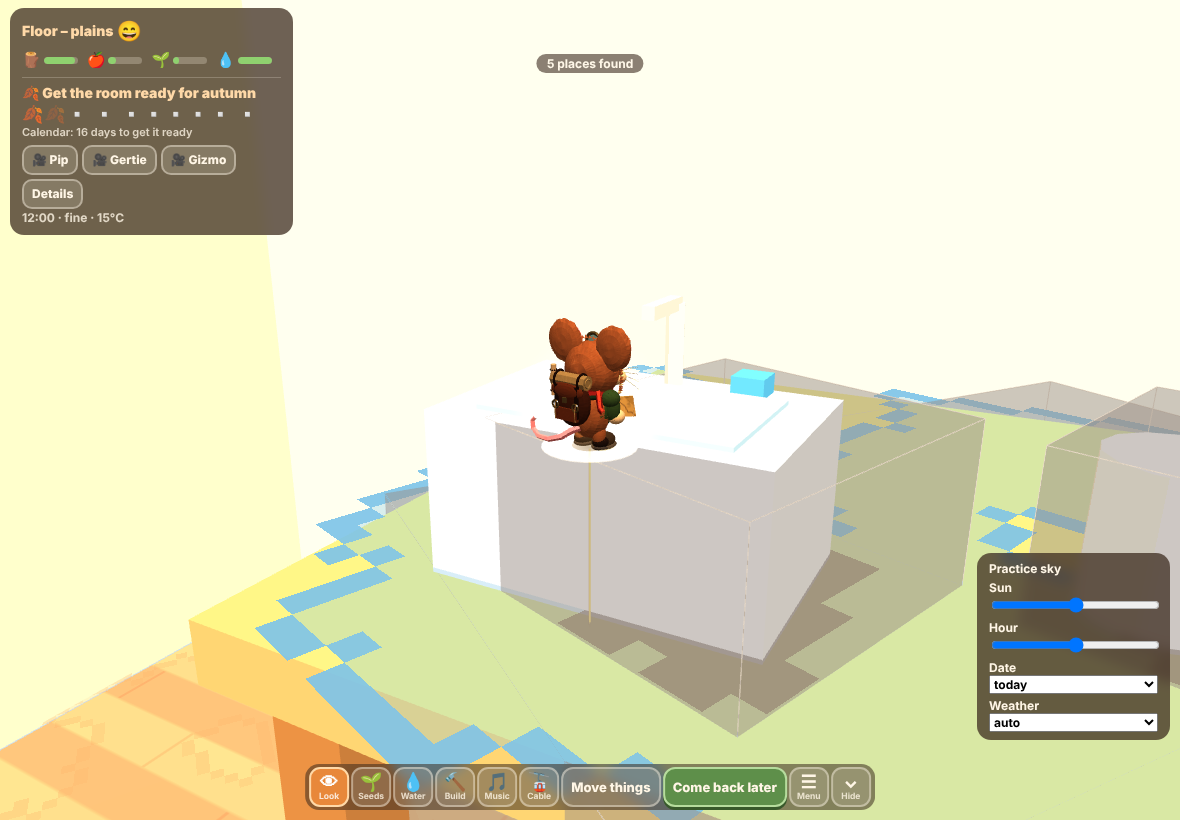
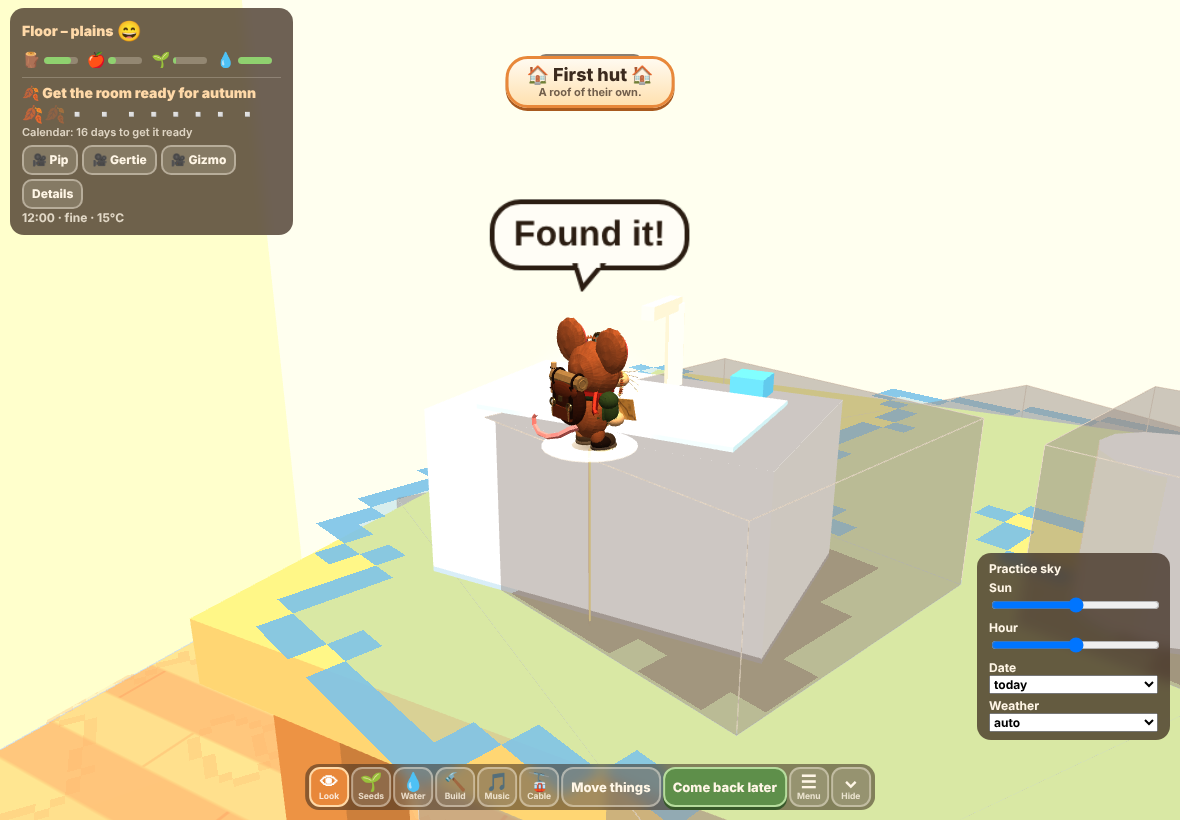
WIP build 18: test fixes, via hook test

diff --git a/games/base-camp/tests/water-test.js b/games/base-camp/tests/water-test.js
@@ -6,7 +6,7 @@ const { serve, launch, ROOT } = require('./lib.js'); const fs = require('fs'), p
 const OUT = path.join(ROOT, 'shots') + '/'; const sleep = (ms) => new Promise((r) => setTimeout(r, ms));
 const res = []; const ok = (n, c, x) => { res.push(!!c); console.log((c ? 'PASS ' : 'FAIL ') + n + (x !== undefined ? '  ' + x : '')); };
 const FIX = JSON.parse(fs.readFileSync(path.join(__dirname, 'fixtures', 'style-colony.json'), 'utf8')), OLD17 = JSON.parse(fs.readFileSync(path.join(__dirname, 'fixtures', 'build17-save.json'), 'utf8'));
-const B17 = { room: 1393, close: 597 }; /* build 17 on the same fixture colony (tests/style-test.js way of measuring, run on a copy of build 17) */
+const B17 = { room: 1363, close: 620 }; /* build 17 on the same fixture colony, measured the style-test.js way on a copy of build 17: 1393 / 597 (style-test), 1346 / 623 and 1350 / 639 (three runs, so about +-3% noise); the mean is used */
 const stamp = (st) => { const o = {}; for (const k in st) { let v = st[k]; try { const j = JSON.parse(v), n = Date.now(); if (k === 'base-camp-save-v2') j.t = n; if (k === 'base-camp-map-v1') j.saved = n; if (k === 'bc-rooms-v1') j.rooms.forEach((r) => { r.last = n; }); v = JSON.stringify(j); } catch (e) { /* as is */ } o[k] = v; } return o; };
 async function boot(p, url, store) {
   const ev = (f, a) => p.evaluate(f, a);
@@ -30,7 +30,7 @@ const view = (p, o) => p.evaluate((o) => { const hs = (S) => S.things.filter((t)
   ok('qualities: sink fresh, plant pot and vase green, cup tea, toilet waste only', await ev(() => __g.WSRC.sink.q === 'fresh' && __g.WSRC.pot.q === 'green' && __g.WSRC.vase.q === 'green' && __g.WSRC.cup.q === 'tea' && __g.WSRC.toilet.q === 'waste'));
   for (let i = 0; i < 60 && !(await ev(() => __g.G.spots.some((s) => __g.waterKind(s) === 'sink') && __g.G.spots.some((s) => __g.waterKind(s) === 'toilet'))); i++) await sleep(500);
   const seen = await ev(() => ({ sinks: __g.G.spots.filter((s) => __g.waterKind(s) === 'sink').length, toilets: __g.G.spots.filter((s) => __g.waterKind(s) === 'toilet').length }));
-  ok('the scan recognises the toy sink and toilet as spots (one each)', seen.sinks === 1 && seen.toilets === 1, JSON.stringify(seen));
+  ok('the scan recognises the toy sink and toilet as spots (one each)', seen.sinks === 1 && seen.toilets === 1, JSON.stringify(seen) + JSON.stringify(await ev(() => __g.G.spots.filter((s) => __g.waterKind(s)).map((s) => [s.name, +s.x.toFixed(2), +s.y.toFixed(2), +s.z.toFixed(2)]))));
   await ev(() => { const g = __g; for (const [id, kind] of [['sink', 'sink'], ['toilet', 'toilet']]) if (!g.G.spots.some((s) => g.waterKind(s) === kind)) { const q = g.PROPS.find((x) => x.id === id), [wx, wz] = g.PLACE ? [q.x, q.z] : [0, 0]; g.addSpot({ tag: 'other', name: kind, x: wx, y: q.base + q.h, z: wz, area: 0.02, src: 'auto' }); } });
   const S0 = await ev(() => { const S = __g.mainSettlement(); S.t = Math.max(S.t, 30); S.stock.wood = 40; __g.G.net.found = {}; __g.G.net.exp = null; __g.G.net.xt = 0; __g.G.speed = 0; return { cols: S.cols.length, scouts: S.cols.filter((c) => c.scout).length, loo: !!__g.looOf(S) }; });
   ok('the colony is up with one scout; each camp has a loo hut', S0.cols >= 3 && S0.scouts === 1 && S0.loo, JSON.stringify(S0));
@@ -38,12 +38,13 @@ const view = (p, o) => p.evaluate((o) => { const hs = (S) => S.things.filter((t)
   ok('before the scout finds the sink no straw can be laid: "Nobody has found the sink yet"', /Nobody has found the sink/.test(refuse.err) && !refuse.lay && refuse.n === 0 && refuse.modes === 'car', JSON.stringify(refuse));
   /* the expedition: walk, climb, look around, cheer; the toast says who found it; step the sim and watch the scout */
   const ex = { phases: [], toast: '', shot: false, name: '', walked: false };
-  for (let i = 0; i < 400; i++) {
-    const r = await ev(() => { __g.simulate(0.5, 0.5); const N = __g.G.net, S = __g.mainSettlement(), c = S.cols.find((q) => q.scout), j = c && c.job; return { ph: j && j.type === 'expedition' ? j.ph : '', moving: c && c.moving, found: Object.keys(N.found).length, toast: document.getElementById('toast').textContent, name: c && c.name, yOff: c && c.yOff, exps: N.st.expeds }; });
-    if (r.ph && ex.phases[ex.phases.length - 1] !== r.ph) ex.phases.push(r.ph); if (r.ph === 'go' && r.moving) ex.walked = true; if (/found the/.test(r.toast)) { ex.toast = r.toast; ex.name = r.name; }
-    if (r.ph === 'look' && !ex.shot) { ex.shot = true; await ev(() => { const S = __g.mainSettlement(), c = S.cols.find((q) => q.scout), sp = __g.spotById(c.job.sp), w = S.group.localToWorld(new __g.THREE.Vector3(c.x, c.yOff || 0, c.z)); __g.P.mode = 'orbit'; __g.P.yaw = 0.5; __g.P.pitch = 0.3; __g.focusOn(w.x, w.y + 0.02, w.z, 0.42); }); await sleep(2200); await p.screenshot({ path: OUT + '57-scout-expedition.png' }); }
+  await ev(() => { window.__rec = { phases: [], toast: '', name: '', walked: false }; window.__expFn = () => { const R = window.__rec, N = __g.G.net, S = __g.mainSettlement(), c = S.cols.find((q) => q.scout), j = c && c.job, ph = j && j.type === 'expedition' ? j.ph : ''; if (ph && R.phases[R.phases.length - 1] !== ph) R.phases.push(ph); if (ph === 'go' && c.moving) R.walked = true; const t = document.getElementById('toast').textContent; if (/found the/.test(t)) { R.toast = t; R.name = c.name; } return false; }; });
+  for (let round = 0; round < 8; round++) {
+    const r = await ev(() => { let lookAt = false; __run(240, () => { window.__expFn(); const S = __g.mainSettlement(), c = S.cols.find((q) => q.scout), j = c && c.job; if (j && j.type === 'expedition' && j.ph === 'look' && !window.__shot) { window.__shot = true; lookAt = true; return true; } return Object.keys(__g.G.net.found).length >= 2 && !(j && j.type === 'expedition'); }, 0.25); return { lookAt, found: Object.keys(__g.G.net.found).length }; });
+    if (r.lookAt && !ex.shot) { ex.shot = true; await ev(() => { const S = __g.mainSettlement(), c = S.cols.find((q) => q.scout), w = S.group.localToWorld(new __g.THREE.Vector3(c.x, c.yOff || 0, c.z)); __g.P.mode = 'orbit'; __g.P.yaw = 0.5; __g.P.pitch = 0.3; __g.focusOn(w.x, w.y + 0.02, w.z, 0.42); }); await sleep(2200); await p.screenshot({ path: OUT + '57-scout-expedition.png' }); continue; }
     if (r.found >= 2) break;
   }
+  Object.assign(ex, await ev(() => window.__rec));
   console.log('  expedition phases ' + ex.phases.join(' > ') + ', toast "' + ex.toast.replace(/\s+/g, ' ').slice(0, 90) + '"');
   ok('the scout goes on an expedition: walk there, climb, LookAround, cheer, and walks back', ex.walked && ex.phases.includes('look') && ex.phases.includes('cheer') && ex.phases.includes('back'), ex.phases.join());
   ok('the toast says who found it ("Pip found the sink!") and is tagged as a placeholder', /found the (sink|toilet)/.test(ex.toast) && ex.toast.includes(ex.name) && /CAIRN \(placeholder\)/.test(ex.toast), ex.toast.slice(0, 120));
@@ -70,12 +71,13 @@ const view = (p, o) => p.evaluate((o) => { const hs = (S) => S.things.filter((t)
   const lnS = await ev(() => { const S = __g.mainSettlement(), sp = __g.G.spots.find((s) => __g.waterKind(s) === 'toilet'), [wx, wz] = __g.l2w(S, 0.0, 0.1); S.waste = 2; S.compost = 0; window.__sfxLog.length = 0; const ln = __g.netLay('waste', S, wx, wz, sp); return { made: !!ln, kind: ln && ln.k, loo: !!__g.looOf(S), refusedWater: __g.netCanLay('pipe', S, sp) }; });
   ok('a bucket line is laid from the loo hut to the toilet; a straw to the toilet is refused', lnS.made && lnS.kind === 'waste' && lnS.loo && /toilet takes buckets/.test(lnS.refusedWater), JSON.stringify(lnS));
   const seenSt = []; let shot56 = false;
-  for (let i = 0; i < 700; i++) {
-    const r = await ev(() => { __g.simulate(0.5, 0.5); const ln = __g.G.net.lines[0], N = __g.G.net; return { st: ln.st, s: ln.s, load: ln.load, tips: N.st.tips, returns: N.st.returns, fan: N.st.fanfares }; });
-    if (seenSt[seenSt.length - 1] !== r.st) seenSt.push(r.st);
-    if (r.st === 'run' && r.s > 0.4 && !shot56) { shot56 = true; await ev(() => { const ln = __g.G.net.lines[0]; const S = __g.mainSettlement(); __g.P.mode = 'orbit'; __g.P.yaw = 0.45; __g.P.pitch = 0.32; __g.focusOn(ln.cab.position.x, ln.cab.position.y - 0.01, ln.cab.position.z, 0.55); }); await sleep(2200); await p.screenshot({ path: OUT + '56-flush-run.png' }); }
-    if (r.returns >= 1 && r.tips >= 1) break;
+  await ev(() => { window.__seen = []; window.__shot56 = false; });
+  for (let round = 0; round < 6; round++) {
+    const r = await ev(() => { let want = false; __run(300, () => { const N = __g.G.net, ln = N.lines[0]; if (window.__seen[window.__seen.length - 1] !== ln.st) window.__seen.push(ln.st); if (ln.st === 'run' && ln.s > 0.4 && !window.__shot56) { window.__shot56 = true; want = true; return true; } return N.st.returns >= 1 && N.st.tips >= 1; }, 0.25); const N = __g.G.net; return { want, done: N.st.returns >= 1 && N.st.tips >= 1 }; });
+    if (r.want && !shot56) { shot56 = true; await ev(() => { const ln = __g.G.net.lines[0]; __g.P.mode = 'orbit'; __g.P.yaw = 0.45; __g.P.pitch = 0.32; __g.focusOn(ln.cab.position.x, ln.cab.position.y - 0.01, ln.cab.position.z, 0.55); }); await sleep(2200); await p.screenshot({ path: OUT + '56-flush-run.png' }); continue; }
+    if (r.done) break;
   }
+  seenSt.push(...(await ev(() => window.__seen)));
   const cyc = await ev(() => { const ln = __g.G.net.lines[0], N = __g.G.net, S = __g.mainSettlement(), L = N.log.map((e) => e.k); return { states: ln.st, tips: N.st.tips, fan: N.st.fanfares, ret: N.st.returns, log: L.filter((k, i) => L.indexOf(k) === i).join(), sfx: window.__sfxLog.filter((k) => k === 'ploop' || k === 'trumpet').join(), comp: S.compost, load: ln.load }; });
   console.log('  bucket states ' + seenSt.join(' > ') + ' | ' + JSON.stringify(cyc));
   ok('a bucket rides out, tips in at the toilet, and the empty bucket rides back to the loo hut', seenSt.includes('run') && seenSt.includes('tip') && seenSt.includes('back') && cyc.tips >= 1 && cyc.ret >= 1 && cyc.states === 'dock' && !cyc.load, seenSt.join());
@@ -114,6 +116,17 @@ const view = (p, o) => p.evaluate((o) => { const hs = (S) => S.things.filter((t)
   ok('a tap from the Giant fixes it at once', tapR.was && !tapR.now && tapR.by.k === 'fix' && tapR.by.by === 'tap', JSON.stringify(tapR));
   const selfT = await ev(() => { __g.mainSettlement().cols.forEach((c) => { c.inside = true; }); const p = __g.G.net.pipes[0]; __g.netBreak('pipe'); const t = __run(90, () => !p.kink, 0.5); __g.mainSettlement().cols.forEach((c) => { c.inside = false; }); return t; });
   ok('with every creature asleep a break still mends itself within about a minute', selfT >= 0 && selfT <= 75, String(selfT));
+  /* a bucket line can run via a ceiling hook, like a cable car (a pretend ceiling with a hook is added for this) */
+  const viaR = await ev(() => {
+    const g = __g, G = g.G, S = g.mainSettlement(), ln = G.net.lines[0], log = G.net.log.filter((e) => e.line === ln.id), s0 = log.find((e) => e.k === 'send'), r0 = log.find((e) => e.k === 'return' && e.t > s0.t), straight = r0.t - s0.t - 2.4;
+    const Z = { id: 900, name: 'Pretend ceiling', type: 'CEIL', spec: '', ceil: true, y: 2.4, h: 0, cx: S.tf.x, cz: S.tf.z, ang: 0, w: 1.2, d: 1.2, area: 1.4, color: 0xffffff, land: null, settled: null, label: null, core: null };
+    G.zones.push(Z); const h = g.addHook(Z, S, { built: true, o: [0, 0] }); ln.via = h.id; ln.key = ''; ln.st = 'dock'; ln.s = 0; ln.tm = 0; ln.load = false; S.waste = 3; const ret0 = G.net.st.returns, t0 = G.simT;
+    const t = __run(300, () => G.net.st.returns > ret0, 0.25); const log2 = G.net.log.filter((e) => e.line === ln.id && e.t >= t0), s1 = log2.find((e) => e.k === 'send'), r1 = log2.find((e) => e.k === 'return');
+    const hooked = s1 && r1 ? r1.t - s1.t - 2.4 : -1, passes = h.passes | 0, built = !!linkHookOK(ln);
+    function linkHookOK(l) { return g.linkHook(l); }
+    ln.via = 0; ln.key = ''; g.hooksDrop(); G.zones.splice(G.zones.indexOf(Z), 1); return { straight: +straight.toFixed(1), hooked: +hooked.toFixed(1), ratio: +(hooked / straight).toFixed(2), passes, built, t };
+  });
+  ok('a bucket line can run via a ceiling hook: the bell rings and the trip takes about 0.7 of the straight trip', viaR.passes >= 2 && viaR.built && viaR.ratio > 0.5 && viaR.ratio < 0.9, JSON.stringify(viaR));
   /* ---------- F. look mode: blue pipes, brown lines ---------- */
   const look = await ev(() => { __g.setTool('look'); __g.netVisual(0.016, 1); const p = __g.G.net.pipes[0], ln = __g.G.net.lines[0], on = [p.glow.visible, ln.glow.visible, p.glow.material.color.getHex(), ln.glow.material.color.getHex()]; __g.setTool('seed'); __g.netVisual(0.016, 1); return { on, off: [p.glow.visible, ln.glow.visible] }; });
   ok('Look mode: pipes glow blue, waste lines glow brown (and not in other tools)', look.on[0] && look.on[1] && look.on[2] === 0x4ab4ff && look.on[3] === 0xb87a3a && !look.off[0] && !look.off[1], JSON.stringify(look));
@@ -128,6 +141,7 @@ const view = (p, o) => p.evaluate((o) => { const hs = (S) => S.things.filter((t)
   const live = await ev(() => { __g.G.holdPlace = false; for (const S of __g.G.settlements) S.placed = true; __g.G.phase = 'play'; __run(60); const N = __g.G.net; return { pipeOn: __g.G.settlements.some((S) => S.pipeOn), tips: N.st.tips }; });
   ok('the restored network keeps running', live.pipeOn);
   /* an old build 17 save (made by the real build 17) loads: no network yet, no errors, loo huts appear */
+  await ev(() => { window.persist = () => {}; }); /* the page saves itself when it unloads: not this time */
   await p.evaluate((st) => { localStorage.clear(); localStorage.setItem('bc-wxchoice', 'no'); for (const k in st) localStorage.setItem(k, st[k]); }, stamp(OLD17)); await p.reload(); await sleep(2500);
   const old = await ev(() => { let err = ''; let okc = false; try { okc = __g.prepareContinue(); } catch (e) { err = String(e && e.stack || e).slice(0, 200); } const N = __g.G.net; return { okc, err, camps: __g.G.settlements.length, pipes: N.pipes.length, lines: N.lines.length, found: Object.keys(N.found).length, cols: __g.G.settlements.reduce((a, S) => a + S.cols.length, 0), waste: __g.G.settlements[0] && __g.G.settlements[0].waste }; });
   ok('a build 17 save (no network fields) loads, with the defaults', old.okc && !old.err && old.camps >= 1 && old.pipes === 0 && old.lines === 0 && old.found === 0 && old.cols >= 3, JSON.stringify(old));

diff --git a/games/base-camp/index.html b/games/base-camp/index.html
@@ -3435,7 +3435,7 @@ function pipeVisual(p, dt, time) {
   const pos = p.drops.geometry.attributes.position, N = p.nd, v = tmpV; p.drops.visible = p.ready;
   if (p.ready) {
     if (!p.kink) p.flow = (p.flow + dt * 0.16 / p.len) % 1;
-    for (let i = 0; i < N; i++) { let u = (p.flow + i / N) % 1; if (p.kink) u = Math.min(u, p.ku - 0.012 - (i % 7) * 0.011); ptAt(p, u, v); pos.setXYZ(i, v.x, v.y + 0.0046 + 0.0012 * Math.sin(time * 6 + i * 1.7), v.z); }
+    for (let i = 0; i < N; i++) { let u = (p.flow + i / N) % 1; if (p.kink) u = Math.min(u, p.ku - 0.012 - (i % 7) * 0.011); ptAt(p, u, v); pos.setXYZ(i, v.x, v.y + 0.0046 + (p.kink ? 0 : 0.0012 * Math.sin(time * 6 + i * 1.7)), v.z); }
     pos.needsUpdate = true;
   }
   p.knot.visible = p.kink; p.bang.visible = p.kink;
@@ -4035,7 +4035,7 @@ function recogConsider(d, fr) {
   const lib = libFind('coco:' + d.class), R = lib ? { tag: lib.tag, name: lib.name } : COCO_ROLES[d.class]; if (!R || d.score < 0.3) return; RECOG.stats.dets++;
   const sx = (d.bbox[0] + d.bbox[2] / 2) / fr.w * innerWidth, sy = (d.bbox[1] + d.bbox[3]) / fr.h * innerHeight, hit = surfacePick(sx, sy); if (!hit) return;
   const top = topNear(hit) || { x: hit.x, z: hit.z, y: hit.y, area: 0.004 }; // no top scanned there: the place where its feet are
-  const wk = waterKind({ name: R.name, cls: d.class, src: 'auto' }), named = G.spots.find((s) => s.src !== 'default' && (Math.hypot(s.x - top.x, s.z - top.z) < 0.07 || (wk && (wk === 'sink' || wk === 'toilet') && waterKind(s) === wk && Math.hypot(s.x - top.x, s.z - top.z) < 0.32))); /* build 18: one sink and one toilet per corner of the room, however many bumps the scan sees in them */
+  const wk = waterKind({ name: R.name, cls: d.class, src: 'auto' }), named = G.spots.find((s) => s.src !== 'default' && (Math.hypot(s.x - top.x, s.z - top.z) < 0.07 || (wk && (wk === 'sink' || wk === 'toilet') && waterKind(s) === wk && Math.hypot(s.x - top.x, s.z - top.z) < 0.6))); /* build 18: one sink and one toilet per corner of the room, however many bumps the scan sees in them */
   if (named) { // seen again on a later visit: the tag grows surer; a different class at an automatic tag contradicts it, and the spot is forgotten so it is looked at again
     if (named.src === 'auto' && named.cls) { if (named.cls === d.class) { if (!named.hitT || performance.now() - named.hitT > 20000) { named.n = (named.n || 1) + 1; named.hitT = performance.now(); AUTO.mapDirty = true; } } else if (d.score >= 0.6) { recRecog({ cls: d.class, score: +d.score.toFixed(2), action: 'contradicts ' + named.cls + ': forgotten', spot: named.id }); recSnap('recognition contradicted'); removeSpot(named); AUTO.mapDirty = true; } }
     return;
@@ -4061,7 +4061,7 @@ function recogPropose() {
   RECOG.cand.splice(RECOG.cand.indexOf(c), 1); guessCard({ tag: c.tag, name: c.name, x: c.x, y: c.y, z: c.z, area: c.area, score: c.score, key: 'coco:' + c.cls, src: 'COCO-SSD', cls: c.cls }); RECOG.stats.proposals++;
 }
 function autoTag(c) { // a detection that is sure enough gives the spot a name and a role without asking
-  { const wk = waterKind({ name: c.name, cls: c.cls, src: 'auto' }); if ((wk === 'sink' || wk === 'toilet') && G.spots.some((s) => waterKind(s) === wk && Math.hypot(s.x - c.x, s.z - c.z) < 0.32)) return; } /* build 18: one spot per sink or toilet, however many bumps the scan saw in it */
+  { const wk = waterKind({ name: c.name, cls: c.cls, src: 'auto' }); if ((wk === 'sink' || wk === 'toilet') && G.spots.some((s) => waterKind(s) === wk && Math.hypot(s.x - c.x, s.z - c.z) < 0.6)) return; } /* build 18: one spot per sink or toilet, however many bumps the scan saw in it */
   const sp = addSpot({ tag: c.tag, name: c.name, x: c.x, y: c.y, z: c.z, area: c.area, src: 'auto' }); sp.n = 1; recRecog({ cls: c.cls, score: +c.score.toFixed(2), tag: c.tag, action: 'accepted automatically', spot: sp.id }); sp.cls = c.cls; RECOG.stats.auto++; AUTO.mapDirty = true; for (const S of G.settlements) S.fx = null;
   toast('That looks like a ' + c.name + '! The colonists make it their ' + spotRole(sp).name.toLowerCase() + '.', 4); sfx('pop'); persistSoon();
 }
@@ -6508,7 +6508,7 @@ window.__g = {
   simulate(sec, step) { /* with the device clock the simulated time also moves the sun, so a long run has days and nights (a fixed hourOverride stays fixed) */
     step = step || 0.5; const dev = ENV.hourOverride === null, h0 = ENV.hour; for (let t = 0; t < sec; t += step) { if (dev && t % 30 < step) { ENV.hourOverride = (h0 + t / 3600) % 24; envUpdate(); } simTick(step, false); }
     if (dev) { ENV.hourOverride = null; envUpdate(); } },
-  WW, WSRC, waterKind, netNew, netStep, netSave, netRestore, netReset, netModes, netMode, netLay, netCanLay, netBreak, netFix, netTap, netLoo, netBroken, netAnyBroken, netExpStart, srcOpen, srcTop, srcPick, mkPipeRun, mkLineRun, looOf, pipeFarm, compostK, ptAt, campOK, expedStep, netVisual, PIPE_COST, LINE_COST, mkLoo, tankGeo, bucketGeo,
+  hooksDrop, linkHook, WW, WSRC, waterKind, netNew, netStep, netSave, netRestore, netReset, netModes, netMode, netLay, netCanLay, netBreak, netFix, netTap, netLoo, netBroken, netAnyBroken, netExpStart, srcOpen, srcTop, srcPick, mkPipeRun, mkLineRun, looOf, pipeFarm, compostK, ptAt, campOK, expedStep, netVisual, PIPE_COST, LINE_COST, mkLoo, tankGeo, bucketGeo,
   seaLoad, seaReset, care, seaPlace, seaProgress, seaStripText, seaCheck, seaComplete, seaSim, decorTick, seaEvent, advInfo, advState, advCanOpen, advOpen, advGive, advList, calUi, camOpen, camClose, ccamRender, ccamText, doingText, goalHtml, cardUi, SEA, SEASONS, DECOR, ADVENT, CCAM, seaDate, seasonIdOf, addThing, mainSettlement, careOn, packAway, seaBuildList, seaFace, advCalendars,
   settle(type) { const z = G.zones.find((q) => q.type === type && !q.settled); if (z) settleZone(z); return z && z.id; },
   settleZone, doneScanning, finishScan, captureScan, applyChanges, makeLink, canLink, zoneById, saveNow, saveMap, serialize, mapToJSON, mapFromJSON, loadSave, loadMapData, importMapText, setTool, giveRequest, plantTree, focusZone, focusOn, updateLabels, paintAll, extractZones, ensureDist,
